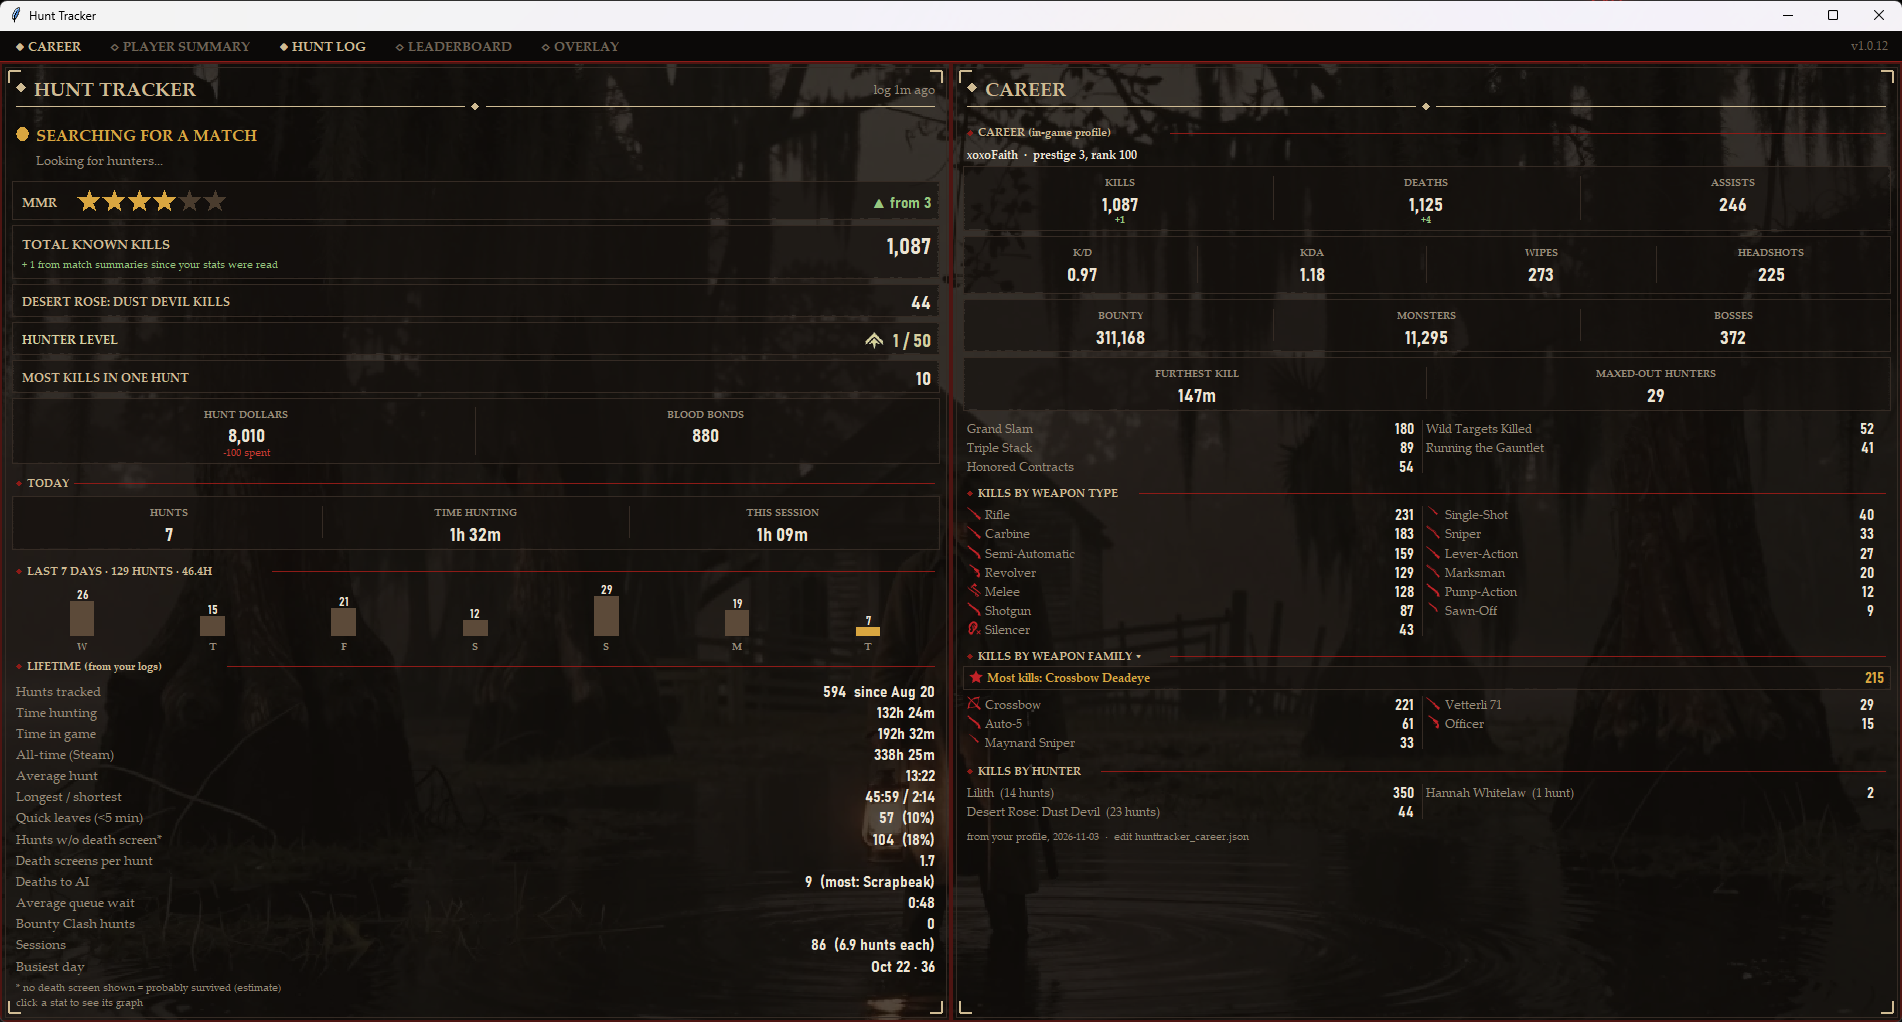
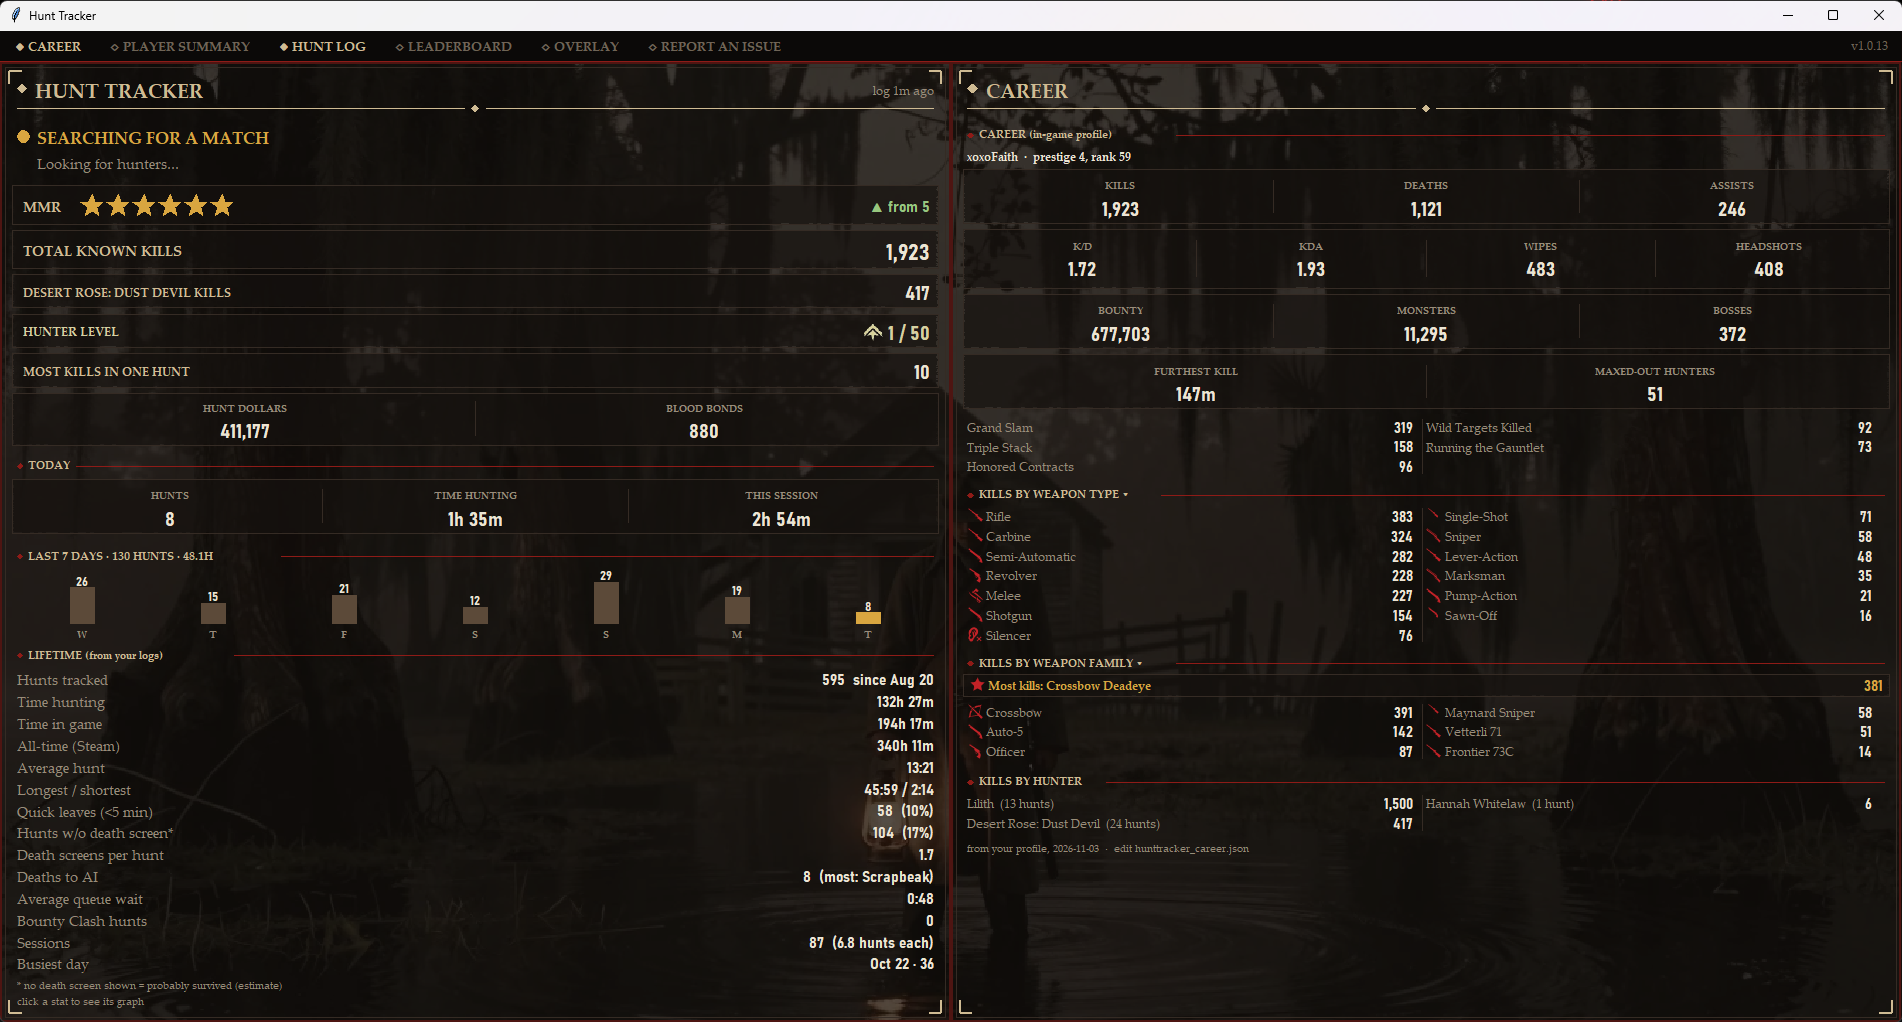
README: new overlay, tracker and Career screenshots; overlay panels can't drift top-left
The README uses only the three new screenshots (the older ones are removed). Overlay panels are
checked against their spot after opening and on every redraw, since Tk could move one back to the
top-left corner after laying it out.

diff --git a/hunttracker.py b/hunttracker.py
@@ -6059,11 +6059,17 @@ def run_window(t: Tracker) -> None:
                 ov["last"][key] = (W, H, k, ops)
                 p_["cv"].configure(width=int(W * k), height=int(H * k))
                 draw_ops(p_["cv"], W, H, ops, k)
+            x, y = spot(key)
             if not p_["shown"]:
-                x, y = spot(key)
                 show(p_["win"], True)
                 put(p_["win"], l + x, tp + y)
                 p_["shown"] = True
+            elif not ov.get("drag"):  # Tk sometimes puts a panel back top-left after a redraw: move it back
+                from ctypes import wintypes
+                rc = wintypes.RECT()
+                u32.GetWindowRect(hwnd_of(p_["win"]), ctypes.byref(rc))
+                if abs(rc.left - (l + x)) > 2 or abs(rc.top - (tp + y)) > 2:
+                    put(p_["win"], l + x, tp + y)
 
     def ov_tick():
         try:
@@ -6127,6 +6133,8 @@ def run_window(t: Tracker) -> None:
         put(ov["bar"], l, tp)
         ov_refresh()
         paint_ov_bar()
+        for ms in (250, 800):  # checked again once Tk has laid the panels out (it can move them back)
+            root.after(ms, lambda: ov_refresh() if ov["open"] else None)
 
         def to_front():  # the bar gets the keys (Esc)
             focus(hwnd_of(ov["bar"]))

diff --git a/README.md b/README.md
@@ -116,8 +116,6 @@ Switch with the **OVERLAY** button at the top, or right-click the icon by the cl
 - Hunt Dollars and Blood Bonds: "+N this hunt" during a match, "−N spent" while you buy your loadout;
   click Hunt Dollars for its graph
 
-![The Hunt Dollars graph](docs/money.png)
-
 **Today / last 7 days**
 - Hunts, time hunting and the current session length, plus a bar chart of the last 7 days
 
@@ -126,8 +124,6 @@ Switch with the **OVERLAY** button at the top, or right-click the icon by the cl
 - Average, longest and shortest hunt, quick leaves (under 5 minutes)
 - Hunts without a death screen, death screens per hunt, deaths to AI, average queue wait
 - Bounty Clash hunts, sessions, busiest day
-
-![A lifetime stat's graph](docs/graph.png)
 
 **Career** (read from your in-game Statistics page, squad screen and profile card)
 - Kills, deaths, assists, K/D, KDA, wipes, headshots, bounty, monsters, bosses, furthest kill; kills
@@ -139,15 +135,12 @@ Switch with the **OVERLAY** button at the top, or right-click the icon by the cl
 
 ![The Career page](docs/career.png)
 
-**Player Summary** (other players' names are blurred in these screenshots)
+**Player Summary**
 - Your squad and the other players from the loading cards, with their stats
 - Who killed you this match (players and AI) and how often they've killed you overall
 - Anyone you've met before ("encountered 3 times") and their MMR from last time
 - Click a player for their whole record: when you met, teammate or enemy, MMR, every stat read
   from their card and squad screen, and each time they killed you (hunter and weapon)
-
-![Player Summary](docs/players.png)
-![One player's record](docs/player_card.png)
 
 ## Leaderboard
 
@@ -161,9 +154,6 @@ removes your entry.
 - Only your player name and those numbers are shared. The board lives in a free Firebase Realtime
   Database; each copy of the tracker signs in anonymously and can only change its own entry
   (see [firebase_rules.json](firebase_rules.json)).
-
-![The leaderboard](docs/leaderboard.png)
-![A leaderboard card](docs/leaderboard_card.png)
 
 ## How it works
 
